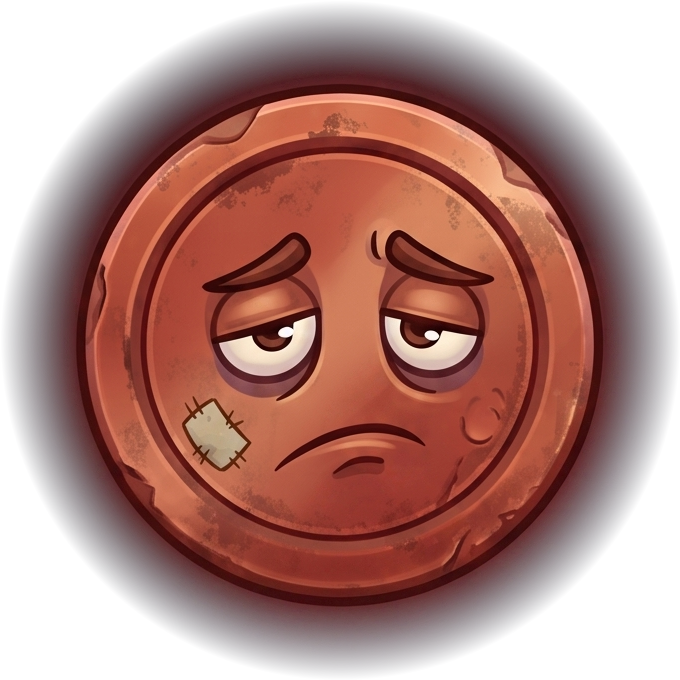
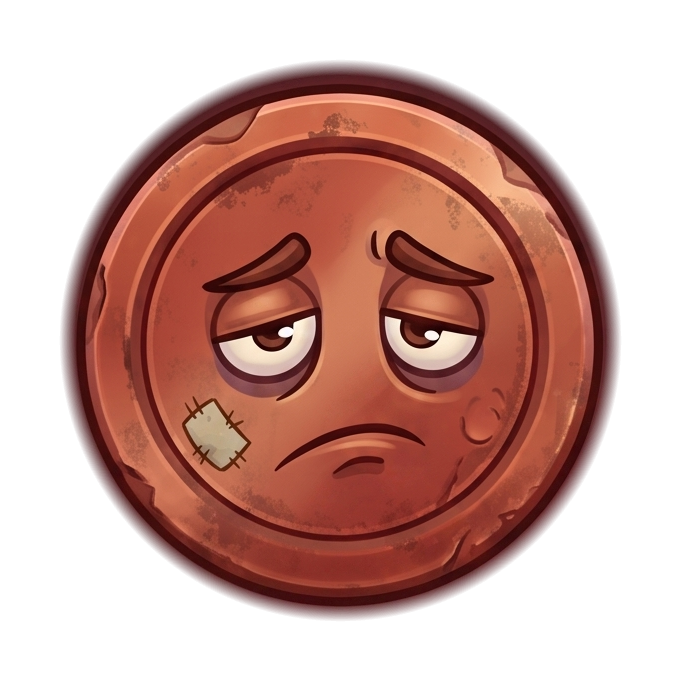
feat: reemplazo diamante + fix tinte de blinks

Changed region(s): [[0.0, 0.0, 0.9882, 0.9882]]

diff --git a/src/gameobjects/Fruit.ts b/src/gameobjects/Fruit.ts
@@ -135,6 +135,26 @@ export const ORB_TIER_HITBOX_FRACTIONS: Record<OrbTier, number> = {
     [OrbTier.Supernova]: 0.8938,
 };
 
+// Tiers with a validated _blink variant (real transparency, same native
+// resolution as their normal texture — see MainScene.ts's preload()
+// comment on why that resolution match matters). OrbeSolar (diamante)
+// and Supernova (GG) are deliberately excluded — no blink for either.
+// Keyed by file name (not texture key) since that's what MainScene.ts's
+// preload() needs to load each one; Fruit.ts only cares that a tier is
+// a key of this record at all (see the constructor below).
+export const BLINK_COIN_FILES: Partial<Record<OrbTier, string>> = {
+    [OrbTier.Chispa]: '1_cobre_blink.png',
+    [OrbTier.Destello]: '2_bronce_blink.png',
+    [OrbTier.Fragmento]: 'plata_blink_transparent.png',
+    [OrbTier.Nucleo]: '4_oro_blink.png',
+    [OrbTier.Cristal]: '5_rubi_blink.png',
+    [OrbTier.Prisma]: '6_amatista_blink.png',
+    [OrbTier.Platino]: '12_platino_blink.png',
+    [OrbTier.Esmeralda]: '9_esmeralda_blink.png',
+    [OrbTier.Reina]: '11_reina_blink.png',
+    [OrbTier.Zafiro]: '10_zafiro_blink.png',
+};
+
 export function fruitTypeToTextureString(fruitType: OrbTier) {
     // Used to be `fruitType % 8` — a leftover guard from before
     // MainScene.ts's merge handler blocked merging two Supernovas (which
@@ -144,6 +164,14 @@ export function fruitTypeToTextureString(fruitType: OrbTier) {
     return `${ORB_TIER_PREFIXES[fruitType]}_${gameOptions.theme}`;
 }
 
+// Applies to every tier in BLINK_COIN_FILES (10 of 12 — diamante and GG
+// opted out). BLINK_MIN/MAX_DELAY_MS is the gap between blinks;
+// BLINK_DURATION_MS is how long the closed-eyes frame stays up before
+// reverting.
+const BLINK_MIN_DELAY_MS = 2000;
+const BLINK_MAX_DELAY_MS = 6000;
+const BLINK_DURATION_MS = 120;
+
 export class Fruit extends Phaser.Physics.Matter.Image {
     fruitType: OrbTier;
     readonly id: number;
@@ -151,6 +179,10 @@ export class Fruit extends Phaser.Physics.Matter.Image {
     lifetime: number;
 
     private debugGraphics: Phaser.GameObjects.Graphics;
+
+    private readonly normalTextureKey: string;
+    private readonly blinkTextureKey: string;
+    private blinkTimer: Phaser.Time.TimerEvent;
 
     constructor(
         world: Phaser.Physics.Matter.World,
@@ -169,6 +201,40 @@ export class Fruit extends Phaser.Physics.Matter.Image {
         this.setCircle((this.displayWidth / 2) * ORB_TIER_HITBOX_FRACTIONS[type]);
         this.lifetime = 0;
         this.debugGraphics = debugGraphics;
+
+        this.normalTextureKey = sprite;
+        if (type in BLINK_COIN_FILES) {
+            this.blinkTextureKey = `${sprite}_blink`;
+            this.scheduleNextBlink();
+        }
+    }
+
+    // Every file in BLINK_COIN_FILES is generated at *exactly* the same
+    // native resolution as its corresponding normal texture, specifically so
+    // this never needs to touch scale/size — a bare setTexture() only
+    // swaps the rendered frame. This matters more than it looks: on a
+    // Matter-physics GameObject, scaleX/scaleY are not plain properties
+    // (see Phaser.Physics.Matter.Components.Transform) — setting them
+    // calls Matter.Body.scale() on the underlying body, which really
+    // resizes the collision vertices and recomputes mass/inertia. An
+    // earlier version of this compensated for a resolution mismatch via
+    // setDisplaySize() after each swap, which (via that same scaleX/scaleY
+    // path) collapsed the body's mass by ~36x for the blink's duration —
+    // the coin lost its resting contact, dropped, and snapped back on
+    // revert. Keeping both textures the same native size avoids the whole
+    // scale path being touched at all.
+    private scheduleNextBlink(): void {
+        const delay = Phaser.Math.Between(BLINK_MIN_DELAY_MS, BLINK_MAX_DELAY_MS);
+        this.blinkTimer = this.scene.time.delayedCall(delay, () => {
+            this.setTexture(this.blinkTextureKey);
+            this.blinkTimer = this.scene.time.delayedCall(
+                BLINK_DURATION_MS,
+                () => {
+                    this.setTexture(this.normalTextureKey);
+                    this.scheduleNextBlink();
+                }
+            );
+        });
     }
 
     public update(time: number, delta: number): void {
@@ -190,6 +256,12 @@ export class Fruit extends Phaser.Physics.Matter.Image {
     }
 
     public destroy(fromScene?: boolean): void {
+        // Without this, a pending delayedCall from scheduleNextBlink()
+        // fires after merge/removal and calls setTexture on an already-
+        // destroyed Matter GameObject.
+        if (this.blinkTimer) {
+            this.blinkTimer.remove();
+        }
         super.destroy(fromScene);
         this.debugGraphics.destroy(fromScene);
     }

diff --git a/index.html b/index.html
@@ -36,9 +36,6 @@
             <div class="top-menu-wrapper">
                 <nav id="top" class="top-menu">
                     <div class="icon-bar">
-                        <a class="help-link link-icon" href="#">
-                            <i data-feather="help-circle"></i>
-                        </a>
                         <a class="settings-link link-icon" href="#">
                             <i data-feather="settings"></i>
                         </a>
@@ -166,67 +163,6 @@
                 </div>
             </div>
         </template>
-        <template id="how-to-play">
-            <span class="how-to-play">
-                <h2 data-i18n="howToPlay.heading">Cómo jugar</h2>
-                <span class="text" data-i18n="howToPlay.intro"
-                    >Fusioná monedas en orden para obtener la SP.</span
-                >
-                <hr />
-                <br />
-                <div class="meaning">
-                    <span class="text" data-i18n="howToPlay.chain"
-                        >Cobre -> Bronce -> Plata -> Oro -> Rubí -> Amatista
-                        -> Platino -> Esmeralda -> Reina -> Zafiro -> Diamante
-                        -> SP.</span
-                    >
-                </div>
-                <br />
-                <div class="meaning">
-                    <svg
-                        class="orb-hierarchy"
-                        viewBox="0 0 200 200"
-                        width="180"
-                        height="180"
-                        role="img"
-                        aria-label="Jerarquía de monedas"
-                        data-i18n-attr="aria-label:howToPlay.chainAriaLabel"
-                    >
-                        <circle
-                            cx="100"
-                            cy="100"
-                            r="68"
-                            fill="none"
-                            stroke="currentColor"
-                            stroke-opacity="0.25"
-                            stroke-width="2"
-                            stroke-dasharray="4 4"
-                        />
-                        <circle cx="100" cy="32" r="16" fill="#b5651d" stroke="currentColor" stroke-width="2" />
-                        <circle cx="134" cy="41.1" r="16" fill="#cd7f32" stroke="currentColor" stroke-width="2" />
-                        <circle cx="158.9" cy="66" r="16" fill="#c0c0c0" stroke="currentColor" stroke-width="2" />
-                        <circle cx="168" cy="100" r="16" fill="#f0c419" stroke="currentColor" stroke-width="2" />
-                        <circle cx="158.9" cy="134" r="16" fill="#c81d3d" stroke="currentColor" stroke-width="2" />
-                        <circle cx="134" cy="158.9" r="16" fill="#8e44ad" stroke="currentColor" stroke-width="2" />
-                        <circle cx="100" cy="168" r="16" fill="#c9d3da" stroke="currentColor" stroke-width="2" />
-                        <circle cx="66" cy="158.9" r="16" fill="#27ae60" stroke="currentColor" stroke-width="2" />
-                        <circle cx="41.1" cy="134" r="16" fill="#e8b923" stroke="currentColor" stroke-width="2" />
-                        <circle cx="32" cy="100" r="16" fill="#2874d6" stroke="currentColor" stroke-width="2" />
-                        <circle cx="41.1" cy="66" r="16" fill="#b3e5fc" stroke="currentColor" stroke-width="2" />
-                        <circle cx="66" cy="41.1" r="18" fill="#ffd700" stroke="currentColor" stroke-width="2" />
-                    </svg>
-                </div>
-                <br />
-                <span class="text" data-i18n="howToPlay.specialRule"
-                    >Si juntás 3 monedas SP en contacto entre sí, explotan:
-                    suman un bonus de puntos extra y liberan espacio en el
-                    frasco para seguir jugando.</span
-                >
-                <br />
-                <br />
-                <span class="text" data-i18n="howToPlay.goodLuck">¡Buena suerte!</span>
-            </span>
-        </template>
         <template id="error-dialog-content">
             <span data-i18n="dialog.errorIntro">
                 The following error occurred:
@@ -241,9 +177,6 @@
             if (typeof feather !== 'undefined') {
                 feather.replace();
             } else {
-                document.querySelector(
-                    "[data-feather='help-circle']"
-                ).innerText = '?';
                 document.querySelector("[data-feather='settings']").innerText =
                     '⚙';
                 document.querySelector(

diff --git a/src/scenes/MainScene.ts b/src/scenes/MainScene.ts
@@ -4,6 +4,7 @@ import {
     ORB_TIER_PREFIXES,
     ORB_TIER_COLORS,
     COIN_TIER_FILES,
+    BLINK_COIN_FILES,
 } from '../gameobjects/Fruit';
 import { Player } from '../gameobjects/Player';
 import { GameManager } from '../managers/GameManager';
@@ -196,6 +197,25 @@ export class MainScene extends Phaser.Scene {
         // TODO: Iterate all themes and load them
         this.loadTheme('fruit_basket');
         this.loadTheme('numbers');
+
+        // Blink variants — one per tier in BLINK_COIN_FILES (10 of 12;
+        // diamante and GG opted out, see Fruit.ts). Every file here is a
+        // cleaned-up derivative, not the raw delivered upload — those came
+        // in fully opaque (alpha 255 everywhere, background baked in
+        // instead of real transparency, same issue the favicon source
+        // had), so each one went through a flood-fill background removal
+        // pass and a resize to match its normal texture's native
+        // resolution exactly (see Fruit.ts's scheduleNextBlink() comment
+        // for why that resolution match matters). Key follows the same
+        // `${prefix}_${theme}` convention as loadTheme()'s real textures,
+        // with a `_blink` suffix.
+        for (const tierKey of Object.keys(BLINK_COIN_FILES)) {
+            const tier = Number(tierKey) as OrbTier;
+            this.load.image(
+                `${ORB_TIER_PREFIXES[tier]}_fruit_basket_blink`,
+                `./assets/coins/${BLINK_COIN_FILES[tier]}`
+            );
+        }
     }
 
     loadTheme(theme: GameTheme): void {
@@ -210,11 +230,6 @@ export class MainScene extends Phaser.Scene {
 
     create(): void {
         this.createMergeParticleTexture();
-
-        // Undo MenuScene's help/settings hide — see index.css's
-        // `body.menu-active` rule. Removed here (not just on the "Jugar"
-        // click) so it's correct regardless of how MainScene gets entered.
-        document.body.classList.remove('menu-active');
 
         // Reuses the single shared instance MenuScene already created (and,
         // in practice, already started playing on the first menu button

diff --git a/src/scenes/MenuScene.ts b/src/scenes/MenuScene.ts
@@ -110,14 +110,6 @@ export class MenuScene extends Phaser.Scene {
     create(): void {
         const centerX = CANVAS_WIDTH / 2;
 
-        // Help is redundant here (this scene's own "Cómo jugar" mode
-        // covers the same ground) — hidden via index.css's
-        // `body.menu-active` rule. MainScene.create() removes this class,
-        // so it's back for actual gameplay, where there's no other way to
-        // reach it. Settings (gear icon, holds the language picker) is
-        // NOT hidden here — see index.css's comment on that rule.
-        document.body.classList.add('menu-active');
-
         // Created here (safe — no playback yet) so it's ready the instant
         // the first button click fires; MainScene reuses this same instance
         // via getOrCreateBgm instead of creating a second one.
@@ -151,10 +143,9 @@ export class MenuScene extends Phaser.Scene {
 
         // At full width the jar is tall enough (~86% of CANVAS_HEIGHT, fixed
         // by this asset's own aspect ratio) that there's very little room
-        // left above it. Help is hidden on this scene now (see the
-        // menu-active class above), leaving only the small mute/settings
-        // icons up top — nowhere near as wide as the old 3-icon row — so
-        // the title only needs to clear that, not a whole row.
+        // left above it. Only the small mute/settings icons are up top —
+        // nowhere near as wide as the old 3-icon row — so the title only
+        // needs to clear that, not a whole row.
         const titleY = 60;
         const titleFontSize = 36;
 

diff --git a/index.css b/index.css
@@ -180,19 +180,6 @@ svg {
     margin-right: 0;
 }
 
-/* Help is redundant on the main menu screen — MenuScene's own "Cómo
-   jugar" mode covers the same ground there — so MenuScene.ts adds this
-   class to <body> on create() (and MainScene.ts removes it on its own
-   create(), belt-and-suspenders in case entry order ever changes). Mute
-   stays visible everywhere; there's no in-scene equivalent for it.
-   Settings (gear icon) used to be hidden here too, back when it only held
-   Theme/Controls — MenuScene's own buttons covered that. It also holds
-   the language picker now, which is relevant no matter which screen
-   you're on, so it stays visible on the menu too. */
-body.menu-active .help-link {
-    display: none;
-}
-
 /* mute-link holds both the "volume-2" and "volume-x" feather icons at once;
    only one shows at a time, toggled by the .muted class the click handler
    in game.ts adds/removes. */
@@ -433,24 +420,6 @@ button.close {
 
 .dialog button.share-button > * {
     color: var(--letter-selected-text-color);
-}
-
-.dialog > .dialog-content > .how-to-play {
-    height: 100%;
-    top: -20px;
-    position: relative;
-}
-
-.dialog > .dialog-content > .how-to-play > h2 {
-    text-transform: uppercase;
-}
-
-.dialog > .dialog-content > .how-to-play div.sample {
-    display: flex;
-}
-
-.dialog > .dialog-content > .how-to-play > div.meaning > span.text {
-    font-size: 0.75em;
 }
 
 /* Notification */

diff --git a/src/game.ts b/src/game.ts
@@ -5,11 +5,7 @@ import { HUDScene } from './scenes/HUDScene';
 import { DebugScene } from './scenes/DebugScene';
 import { initSuraService } from './integration/sura/SuraIntegrationService';
 import { CANVAS_WIDTH, CANVAS_HEIGHT } from './config/boardLayout';
-import {
-    createDialogContentFromTemplate,
-    renderDialog,
-    renderNotification,
-} from './page';
+import { renderNotification } from './page';
 import {
     GameOptions,
     GameState,
@@ -133,13 +129,6 @@ window.onload = () => {
     const fontsReady = document.fonts ? document.fonts.ready : Promise.resolve();
     Promise.all([fontsReady, i18nReady]).then(startGame);
 };
-
-const helpLink: HTMLAnchorElement = document.querySelector('.help-link');
-helpLink.addEventListener('click', (e) => {
-    e.preventDefault();
-    renderDialog(createDialogContentFromTemplate('#how-to-play'), true);
-    helpLink.blur();
-});
 
 // Mutes every game sound (bgm + the collision effect) via Phaser's global
 // Sound Manager rather than routing a per-scene event through MainScene —
